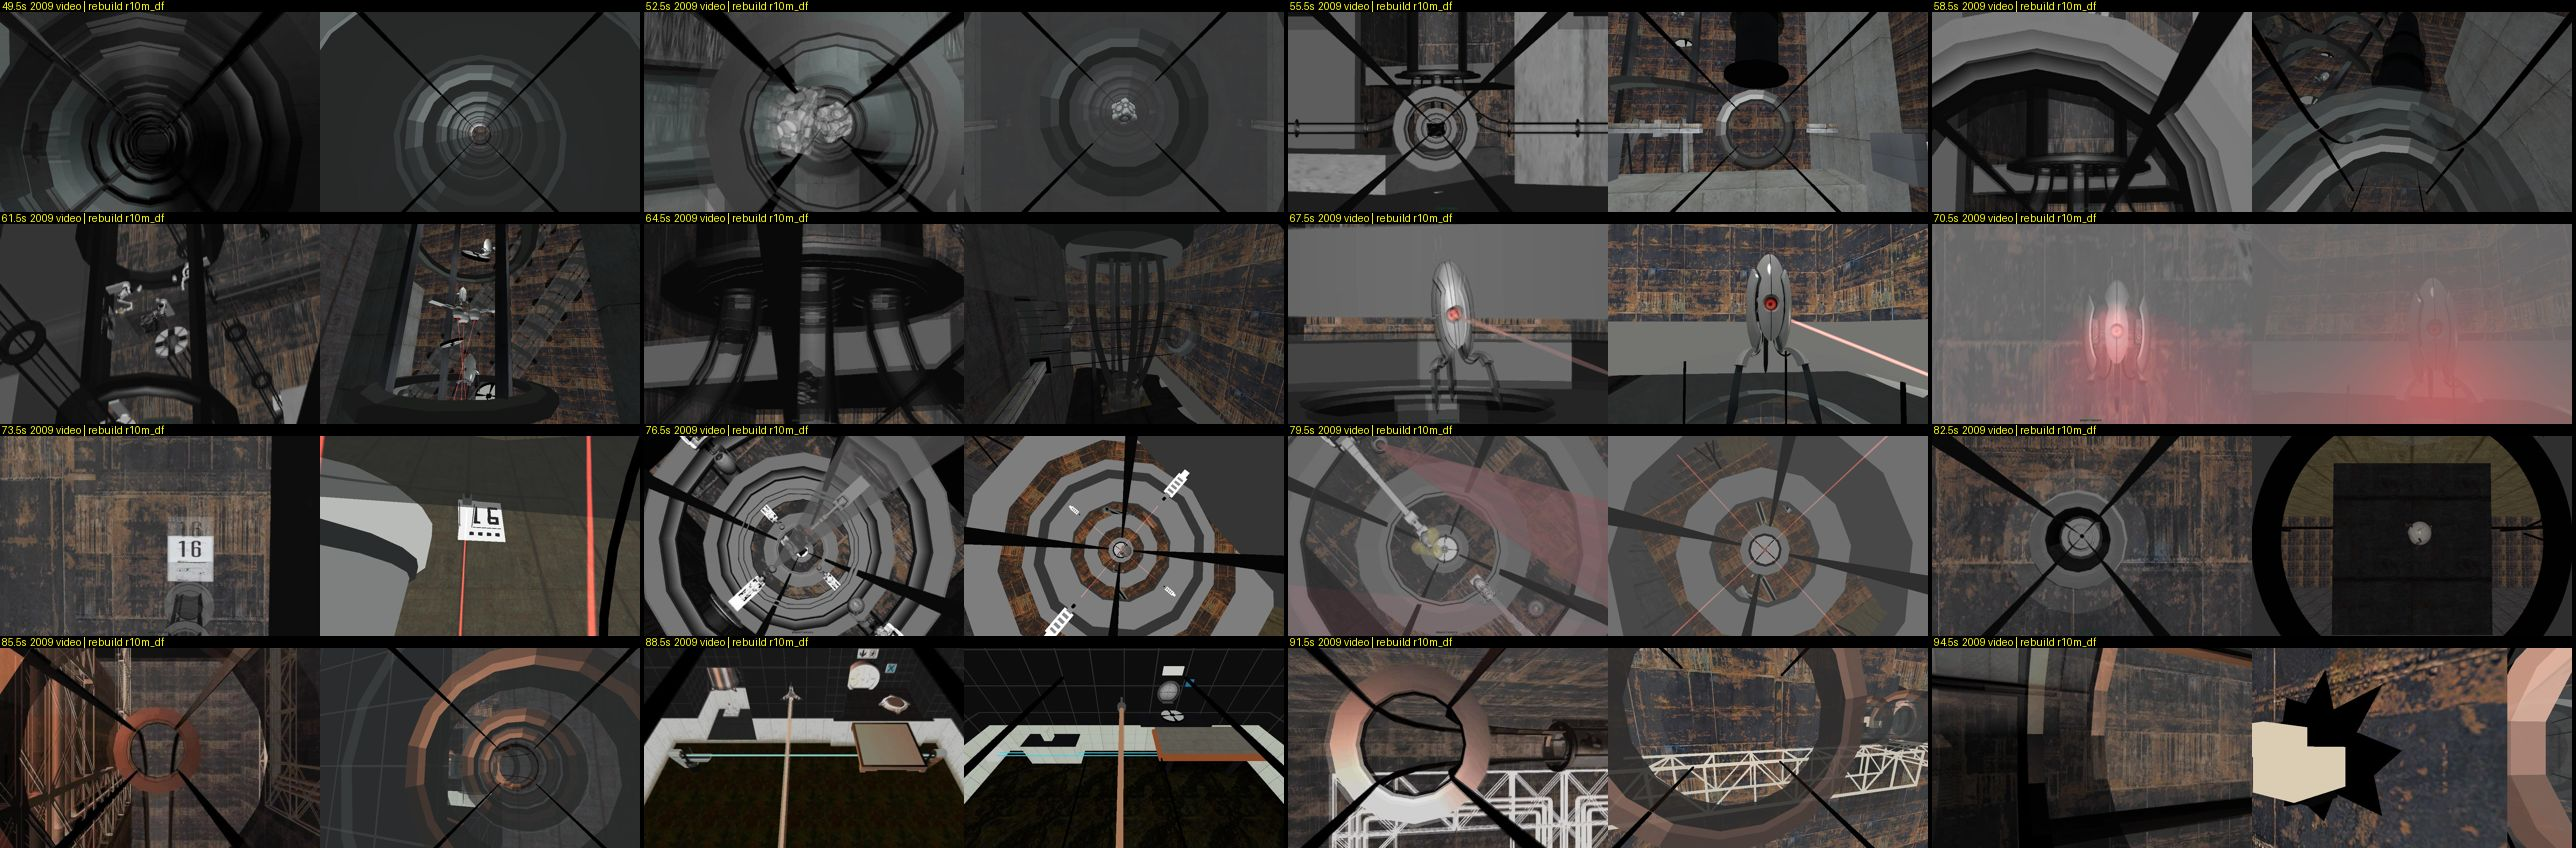
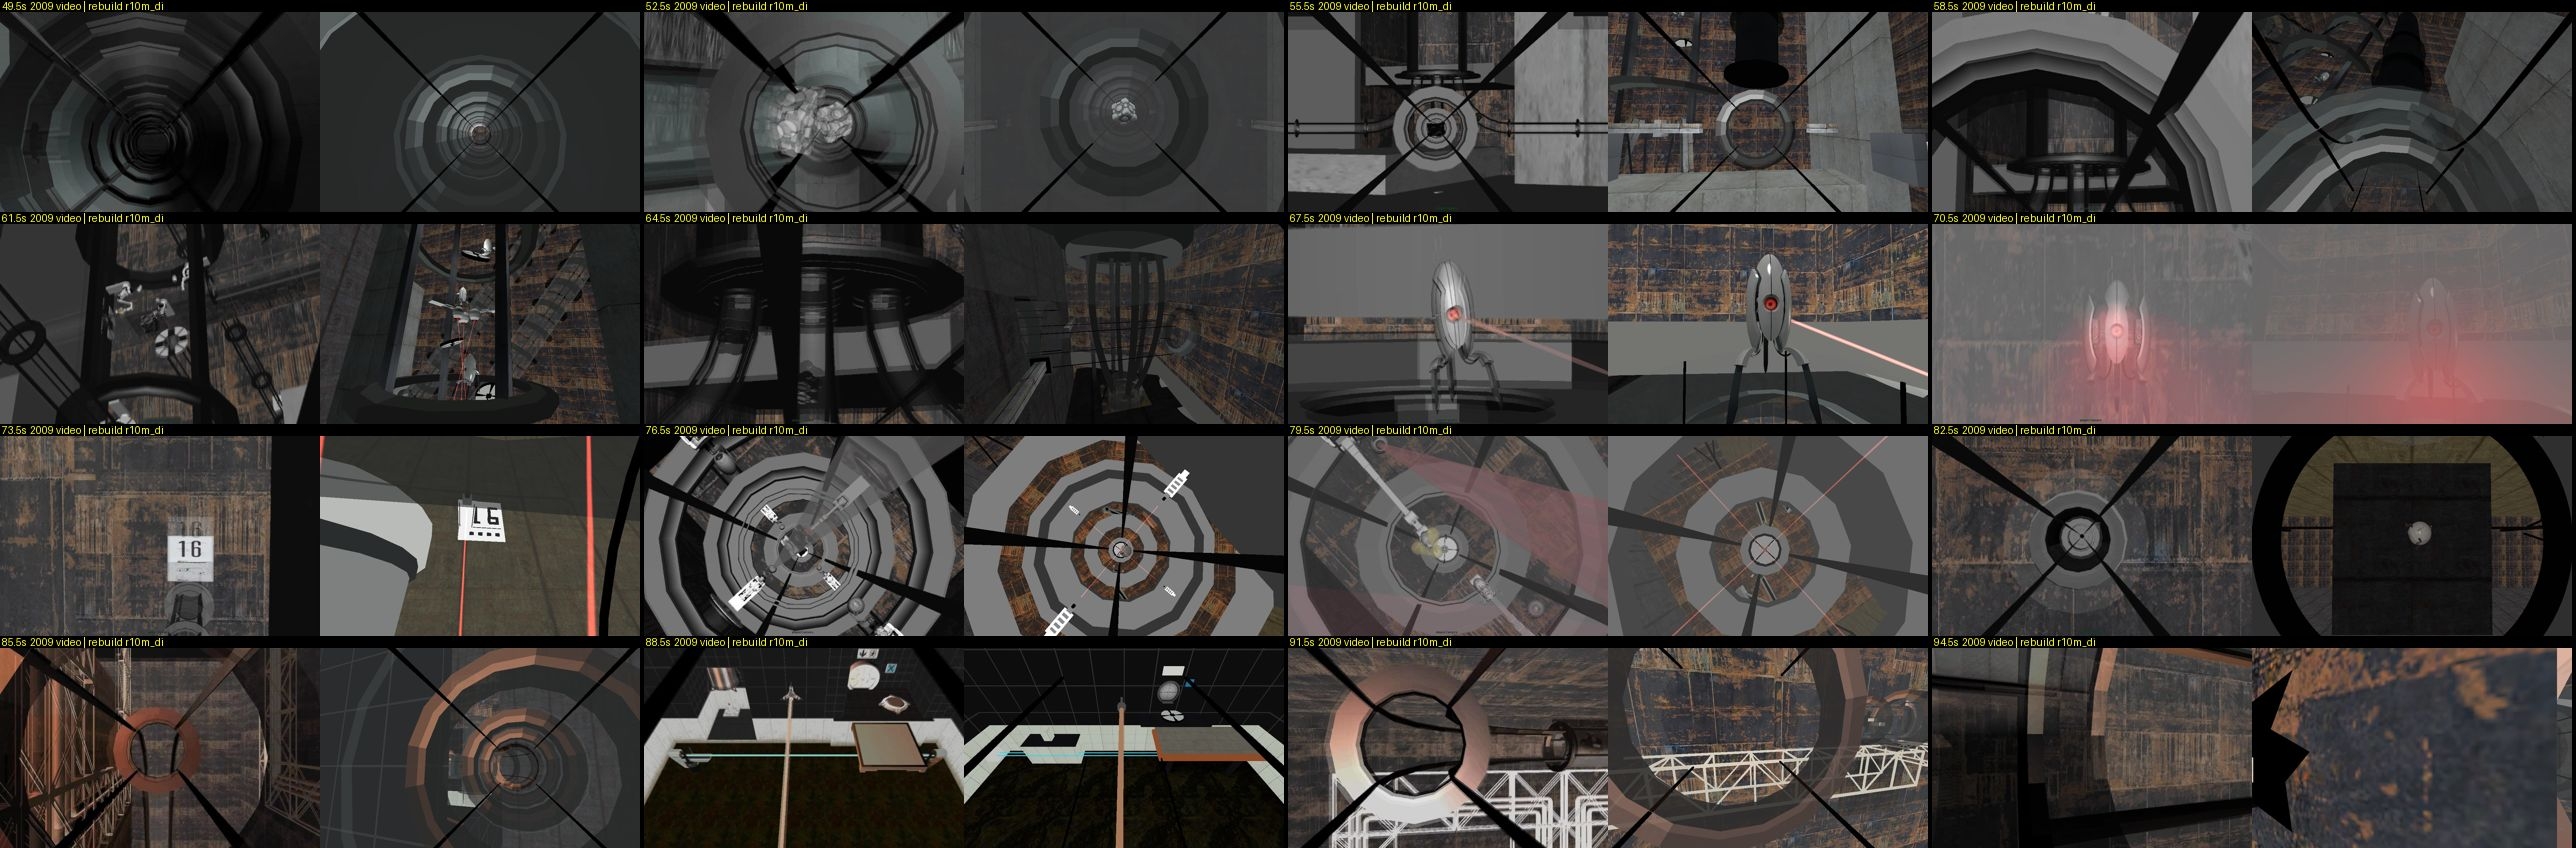
Corehub intro rebuild (corehub_r10di + director_r10di; newest test r10di)
Separated middle rooms, frontal walls, WIP surfaces, 60 fps test runs; see corehub/intro/README.md for per-scene scores.

Claude-Session: https://claude.ai/code/session_014AMsH7FRGKMAJSenMpS1Ga

Changed region(s): [[0.8696, 0.7665, 0.9938, 1.0], [0.7143, 0.7972, 0.7453, 0.8585]]

diff --git a/corehub/intro/tools/patch_director.py b/corehub/intro/tools/patch_director.py
@@ -125,12 +125,16 @@ knots.update({112.0: (83.0, 0.0, 22.0), 112.25: (90.0, 0.0, 26.0), 112.5: (90.0,
               114.5: (90.0, 0.0, 8.1)})
 assert txt.count('{name="intro_discard_cube",poses=[[110.7500,Vector(8389.8750,-37.7813,1590.0000)],[111.2500,Vector(8401.3333,47.2500,1460.0000)],[112.0000,Vector(8493.8118,-31.5612,1409.7186)],[112.5000,Vector(8486.4625,-14.5516,1380.0000)],[113.0000,Vector(8506.2973,-1.7792,1325.0000)],') == 1
 txt = txt.replace('{name="intro_discard_cube",poses=[[110.7500,Vector(8389.8750,-37.7813,1590.0000)],[111.2500,Vector(8401.3333,47.2500,1460.0000)],[112.0000,Vector(8493.8118,-31.5612,1409.7186)],[112.5000,Vector(8486.4625,-14.5516,1380.0000)],[113.0000,Vector(8506.2973,-1.7792,1325.0000)],', '{name="intro_discard_cube",poses=[[111.9000,Vector(8382.0,-26.0,1587.0)],[112.2500,Vector(8401.7,-17.4,1547.0)],[112.5000,Vector(8404.6,-23.2,1519.0)],[112.7500,Vector(8401.2,-27.0,1486.0)],[113.0000,Vector(8385.0,-40.0,1477.0)],')
-for _a, _b in [("local capsuleOffset=(capsuleEye+Vector(34.75,33.0,-10)-capsuleRest)*capsuleBlend;",
-                "local r10sl=(t-125.95)/0.9;if(r10sl<0)r10sl=0;if(r10sl>1)r10sl=1;r10sl=r10sl*r10sl*(3-2*r10sl);local r10slv=Vector(0,-3.0+48.0*r10sl,0)*capsuleBlend;" + chr(10) + "    local capsuleOffset=(capsuleEye+Vector(34.75,33.0,-10)-capsuleRest)*capsuleBlend+r10slv;"),
-               ("local follow=eye+Vector(34.75,33.0,-10);", "local follow=eye+Vector(34.75,33.0,-10)+r10slv;"),
-               ('MoveProp("intro_pod",pod+capsuleOffset);', 'MoveProp("intro_pod",pod+capsuleOffset);{local dk=(t>=125.3&&t<128.0);if(dk!=r10PodDark){EntFire("intro_pod","Color",dk?"62 62 66":"255 255 255",0);r10PodDark=dk;}}')]:
-    assert txt.count(_a) == 1, _a
-    txt = txt.replace(_a, _b)
+# r10di: the capsule shell strip beside the lens (125.3-127 s) reads dark in the video and slides off the right edge by
+# 126.8 s (its curved left edge at 0.66/0.75/0.83/0.95 of the width at 126.0/126.25/126.5/126.75 s); ours stayed put
+_a = 'MoveProp("intro_pod_shell",(t>=125.3)?Vector(0,0,16)+eye-Vector(XHW+160,0,134):Vector(0,0,-3000));'
+_b = 'MoveProp("intro_pod_shell",(t>=125.3)?Vector(0,Lerp1(r10ShellSlide,t),16)+eye-Vector(XHW+160,0,134):Vector(0,0,-3000));'
+assert txt.count(_a) == 1, _a
+txt = txt.replace(_a, _b)
+txt = txt.replace('cutTab <- [', 'r10ShellSlide <- [[126.0,0.0],[126.25,3.6],[126.5,6.7],[126.75,11.3],[127.0,16.0]];' + chr(10) + 'cutTab <- [', 1)
+# r10dh: gallery breach (93.6-94.15 s) -- the video keeps the copper ring at the right with the hole inside its opening,
+# right of centre (0.75-0.8 of the width at 93.75-94 s); ours turned right early and showed the hole at the middle
+knots.update({93.625: (6.5, -50.0, 0.0), 93.75: (8.0, -40.0, 0.0), 93.875: (5.0, -32.0, 0.0), 94.0: (2.0, -30.0, 0.0), 94.125: (2.0, -30.0, 0.0)})
 new = 'knots <- [\n' + ',\n'.join('{t=%.8f,a=Vector(%.8f,%.8f,%.8f)}' % ((t,) + knots[t]) for t in sorted(knots)) + '\n'
 txt = txt[:start] + new + txt[end:]
 # Fades measured from the video's mean luminance around each cut (the cuts dissolve, they are not hard).
@@ -279,7 +283,6 @@ assert txt.count(anchor) == 1
 txt = txt.replace(anchor, '    foreach(f in r10Fades) if(t>=f[0] && t<f[1]){local k=(t-f[0])/(f[1]-f[0]);local a=(f[2]+(f[3]-f[2])*k).tointeger();if(a>fadeAlpha)fadeAlpha=a;}\n' + anchor)
 txt = txt.replace('cutTab <- [', 'r10Fades <- ' + str(fades).replace(' ', '') + ';\ncutTab <- [', 1)
 # the cube rides ahead in the lab tube (100-101.5 s) instead of sitting where the camera passes through it
-txt = txt.replace('cutTab <- [', 'r10PodDark <- false;' + chr(10) + 'cutTab <- [', 1)
 txt = txt.replace('cutTab <- [', 'r10LabCube <- [[99.8,7565],[100,7575],[100.5,7600],[101,7625],[101.5,7640],[101.9,7900]];' + chr(10) + 'cutTab <- [', 1)
 # cube passage (52-53.8 s): the video dissolves from the far cube to a close one at ~52.55 s; the cube jumps
 # closer under a short dip instead of drifting slowly toward the camera
@@ -327,12 +330,12 @@ txt = txt.replace(lk_old, lk_new)
 drop_old = 'MoveProp("intro_drop",(t>=44.0 && t<47.4)?Vector(Lerp1(dropTab,t),0,1150):Vector(0,0,-3000));'
 drop_new = ('{local p=Vector(0,0,-3000);if(t>=44.0&&t<47.6){for(local i=0;i<r10DropPath.len()-1;i++)if(t>=r10DropPath[i][0]&&t<=r10DropPath[i+1][0])'
             '{local f=(t-r10DropPath[i][0])/(r10DropPath[i+1][0]-r10DropPath[i][0]);p=r10DropPath[i][1]+(r10DropPath[i+1][1]-r10DropPath[i][1])*f;break;};};'
-            'MoveProp("intro_drop",p);MoveProp("r10_tube_end",(t<48.85)?Vector(2812,0,1152):Vector(0,0,-3000));'
+            'MoveProp("intro_drop",p);MoveProp("r10_tube_end",(t>=48.2&&t<48.85)?Vector(2812,0,1152):Vector(0,0,-3000));'
             'MoveProp("r10_tw_column",(t<58.58)?Vector(3754,0,1272):Vector(0,0,-3000));MoveProp("r10_tw_backwall",(t<58.58)?Vector(0,0,0):Vector(0,0,-4000));'
             '{local cc=(t>=79.75&&t<81.05);local p=Vector(0,0,-3000);if(cc){local q=r10CloseCones[0][1];for(local i=0;i<r10CloseCones.len()-1;i++)if(t>=r10CloseCones[i][0]&&t<=r10CloseCones[i+1][0]){local f=(t-r10CloseCones[i][0])/(r10CloseCones[i+1][0]-r10CloseCones[i][0]);q=r10CloseCones[i][1]+(r10CloseCones[i+1][1]-r10CloseCones[i][1])*f;break;};p=Vector(q.x,q.y,PositionAt(t).z+q.z);};MoveProp("r10_close_cones",p);MoveProp("r10_close_head",p);local pb=(t<80.1)?p:Vector(0,0,-3000);if(t>=71.3&&t<72.35){p=Vector(4820,50,990);pb=p;MoveProp("r10_close_cones",p);MoveProp("r10_close_head",p);};MoveProp("r10_close_arm_a",(t<72.35)?Vector(0,0,-3000):p);MoveProp("r10_close_arm_b",pb);};'
             '{local twt=(t<58.58||t>=63.9);MoveProp("r10_tw_tube_0",twt?Vector(3754,0,1396):Vector(0,0,-3000));MoveProp("r10_tw_tube_1",twt?Vector(3754,0,1640):Vector(0,0,-3000));MoveProp("r10_tw_tube_2",twt?Vector(4010,0,1640):Vector(0,0,-3000));MoveProp("r10_tw_tube_3",twt?Vector(4010,0,1396):Vector(0,0,-3000));};'
             '{local ins=(t>=71.3&&t<72.35);local pet=(t>=71.3&&t<74.7);local pl=ins||(t>=73.4&&t<74.7);MoveProp("r10_inlet_plate",pl?Vector(0,0,0):Vector(0,0,-4000));MoveProp("r10_inlet_ring",ins?Vector(0,0,-3000):Vector(4800,0,984));local hid=Vector(0,0,-3000);local P1=[Vector(4761.8,38.2,950),Vector(4761.8,-38.2,950),Vector(4838.2,-38.2,950),Vector(4838.2,38.2,950)];local P2=[Vector(4838.2,38.2,950),Vector(4838.2,-38.2,950),Vector(4761.8,-38.2,950),Vector(4761.8,38.2,950)];if(pet){MoveProp("r10_inlet_frame_orig",hid);MoveProp("r10_inlet_frame2",Vector(4800,0,938));foreach(i,q in P2)MoveProp("r10_inlet_petal_"+i,q);foreach(i,q in P1)MoveProp("intro_cake_iris_"+i,hid);}else{MoveProp("r10_inlet_frame2",hid);foreach(i,q in P2)MoveProp("r10_inlet_petal_"+i,hid);if(t>=74.7&&t<74.85){MoveProp("r10_inlet_frame_orig",Vector(4800,0,950));foreach(i,q in P1)MoveProp("intro_cake_iris_"+i,q);};};};'
-            'MoveProp("r10_cube_sleeve",(t>=48.86&&t<50.6)?Vector(0,0,0):Vector(0,0,-4000));'
+            'MoveProp("r10_cube_sleeve",(t>=46.5&&t<48.2)||(t>=48.86&&t<50.6)?Vector(0,0,0):Vector(0,0,-4000));'
             'MoveProp("r10_tu_tubes",(t<67.4)?Vector(4575,58,1340):Vector(0,0,-3000));'
             'MoveProp("r10_exit_collar",(t>=81.0&&t<82.4)?Vector(0,0,-3000):Vector(4967,0,256));'
             '{local tp=(t<67.4);MoveProp("r10_tu_posts",tp?Vector(0,0,0):Vector(0,0,-4000));local ts=(t>=63.87&&t<71.2);MoveProp("r10_tu_screen",ts?Vector(0,0,0):Vector(0,0,-4000));};'

diff --git a/corehub/intro/tools/patch_r10.py b/corehub/intro/tools/patch_r10.py
@@ -848,13 +848,13 @@ for e in v.entities:
     if not e['classname'].startswith('prop_'): continue
     o = Vec.from_str(e['origin'])
     if e['model'] == 'models/corehub_intro/r10_broken.mdl' and abs(o.x - 6592) < 1 and abs(o.y - 185) < 1:
-        e['model'] = 'models/corehub_intro/r10_wallhole.mdl'; e['origin'] = '6679 150 255'; e['angles'] = '0 0 0'; be += 1   # r10bf
-        e['classname'] = 'prop_dynamic_override'; e['modelscale'] = '1.6'; e['solid'] = '0'   # r10bg: the video's hole is ~0.35 of the frame
+        e['model'] = 'models/corehub_intro/r10_wallhole.mdl'; e['origin'] = '6655 160 255'; e['angles'] = '0 0 0'; be += 1   # r10bf; r10dh: 24 nearer the run and 10 north so it sits right of centre at 93.75-94.1 s and sweeps left past the lens at 94.25-94.4 s like the video's
+        e['classname'] = 'prop_dynamic_override'; e['modelscale'] = '1.4'; e['solid'] = '0'   # r10bg: the video's hole is ~0.35 of the frame (r10dh: 1.4 nearer)
     elif e['model'] == 'models/corehub_intro/transport_ring_orange.mdl' and abs(o.x - 6592) < 1 and abs(o.y - 256) < 1:
         e['classname'] = 'prop_dynamic_override'; e['modelscale'] = '0.75'; e['solid'] = '0'; be += 1
 # r10bf: the video passes a jagged black hole in a rust panel close to the right of the rails (94-94.4 s), not a closed
 # broken tube: a rust panel parallel to the run carries the hole (wall-hole model with two cream boxes)
-pan = box((6680, 60, 150), (6690, 320, 380), RUST_GAL, world=False)
+pan = box((6656, 60, 150), (6666, 300, 380), RUST_GAL, world=False)   # r10dh: moved with the hole
 for f in pan.sides: f.uaxis.scale = 0.75; f.vaxis.scale = 0.75
 v.create_ent('prop_dynamic_override', model='models/corehub_intro/transport_ring_pink.mdl', origin='6700 0 256', angles='0 0 0',
              solid='0', disableshadows='1')
@@ -1523,6 +1523,18 @@ for nm, sl in (('r10_inc_tubes', itb), ('r10_inc_cones', ipk), ('r10_inc_haze', 
     v.create_ent('func_brush', targetname=nm, Solidity='1', spawnflags='2', rendermode='0', renderamt='255',
                  rendercolor='255 255 255', disablereceiveshadows='1', disableshadows='1', vrad_brush_cast_shadows='0').solids.extend(sl)
 print('r10dd incinerator: probes removed', _rm, 'collar moved', _mv, 'tubes', len(inc_tubes))
+# r10di: the capsule shell strip beside the lens (125.3-127 s) reads as the video's dark curved wall (left edge ~110,
+# black to the right) rather than pale facets (170 -> 36): its eight shades at 0.6x
+_shell = {}
+for _k, _c in enumerate([0.667, 0.549, 0.439, 0.345, 0.267, 0.212, 0.173, 0.141]):
+    _g = round(_c * 0.6, 3)
+    _shell['corehub_intro/ending_shell_u%d' % _k] = unlit('ending_shell_dk_u%d' % _k, 'lights/white002', '%s %s %s' % (_g, round(_g * 1.016, 3), round(_g * 1.016, 3)))
+_ns = 0
+for e in v.by_target.get('intro_pod_shell', ()) if hasattr(v, 'by_target') else [x for x in v.entities if x['targetname'] == 'intro_pod_shell']:
+    for so in e.solids:
+        for f in so.sides:
+            if f.mat.lower() in _shell: f.mat = _shell[f.mat.lower()]; _ns += 1
+print('r10di shell faces darkened', _ns)
 dst = R10 / 'build' / (NAME + '.vmf')
 v.export(dst.open('w'), inc_version=False)
 print('wrote', dst, len(added), 'boxes')

diff --git a/corehub/intro/README.md b/corehub/intro/README.md
@@ -38,7 +38,7 @@ r10 is built on top of the newest pursuit9 map (capsule-follow v50: walkable ope
 
 ## Scores (1–10, against the 2009 video; ending blink/black not scored)
 
-Published build: `corehub_r10df` + `director_r10df` (outputs/Corehub-Intro). Test run: `videos/r10m_df_side.mp4`.
+Published build: `corehub_r10di` + `director_r10di` (outputs/Corehub-Intro). Test run: `videos/r10m_di_side.mp4`.
 
 | # | Scene | Time (s) | v50 base | r10 now | Main remaining differences |
 |---|---|---|---|---|---|
@@ -50,17 +50,17 @@ Published build: `corehub_r10df` + `director_r10df` (outputs/Corehub-Intro). Tes
 | 6 | Processing tower | 55.3–65 | 4.5 | 9 | r10cn/co: the bend's glossy dome leaves the approach (55-57.3 s) so the collar ring frames the tube's far end against lit rust like the video; r10bn/bp: the camera's own climb tube is hidden during the climb (58.6–63.9 s) so the scanning column, rings, lasers and rust wall read clear like the video; the view stays on the column until ~63.85 s |
 | 7 | Turret and "16" inlet | 65–74 | 5 | 9 | r10cm: the lift descent is as dim as the video (64-65.4 s) and the tubes hanging from the collar are dark grey rather than black; r10cb-cd: the inlet iris shot works again (its first knots had slipped behind a comment, so 71.34-71.8 s swept from the turret yaw); the iris reads as the video's (flat petals in a square round a grey frame); r10bv-by: the glare is a screen-space lens veil with a red glow that follows the turret (wall sd 3 like the video, legs R +60); the camera sits 56 units from the turret and follows the video's eye track; the descent comes in beside the lift collar and looks down past the tubes hanging from it into the floor ring (64-66.5 s); the cut to the inlet iris (71.34 s) is in |
 | 8 | Transfer and scanners | 74–83 | 5 | 9 | r10cq-ct: the transfer shaft (75.4-80.75 s) is the video's stack of flat grey 12-sided rings, measured from its radial luminance profiles every 0.1 s (ring edges tracked, its 16:10 render stretch undone): ring A z 649 (dark chamfer 123-134, grey 134-152), ring B 605 (grey 95-175, dark rust to 226, grey beyond), ring C 563 (grey 51-81), a white target at 515, the tube's four rails as thick black spokes, two long and two short scanner boards between them; the camera descends on the video's measured timing with its vanishing point at the video's (-0.02, +0.10)f, and a grey veil (alpha 0.43-0.73) dims the contrast 77.4-79.8 s like the video; SSIM 0.29 -> 0.39 (76.5-79.5 s: 0.19-0.32 -> 0.30-0.57); r10cj: the cake sits on the closed flat-petal iris until the camera drops through it in the dark like the video (74-75.5 s; SSIM 0.18 -> 0.30 at 74.5 s, 0.33 -> 0.63 at 75 s); r10cc/cd: the iris view looks straight down at the iris set in a flat rust floor with black beams and a darker right panel like the video (81-82.3 s), the iris opens at 82.3 s and the camera passes through by 82.6 s; r10ca: both arms' white links and mounts leave the 81.1–82.5 s iris view; r10bs-bz: the scanner head and cones pass under the lens inside the white ring (80-80.75 s); the second arm and the exit collar leave the 81-82.4 s iris view, the camera holds lower |
-| 9 | Copper tube, sludge room, gallery | 84.5–95.7 | 4 | 8.8 | r10dc: a rust ceiling ring round the sludge funnel closes the top of the drop like the video (86.5 s SSIM 0.32 -> 0.42); r10db: the drop into the sludge funnel runs through a rust-walled shaft like the video (86.2-87.1 s) instead of showing the room's white tiles; r10bz: the sludge room is framed wider (camera 40 higher, 40 back) like the video; the gallery lattice is taller and nearer under the tube so it fills the lower third (91-93.75 s) |
+| 9 | Copper tube, sludge room, gallery | 84.5–95.7 | 4 | 8.8 | r10dh: the breach in the gallery wall sits nearer the run with smaller cream blocks, right of centre inside the copper ring at 93.75-94.1 s and sweeping left past the lens at 94.25-94.4 s like the video (94.0/94.5 s 0.25/0.24 -> 0.29/0.33); r10dc: a rust ceiling ring round the sludge funnel closes the top of the drop like the video (86.5 s SSIM 0.32 -> 0.42); r10db: the drop into the sludge funnel runs through a rust-walled shaft like the video (86.2-87.1 s) instead of showing the room's white tiles; r10bz: the sludge room is framed wider (camera 40 higher, 40 back) like the video; the gallery lattice is taller and nearer under the tube so it fills the lower third (91-93.75 s) |
 | 10 | Factory passage | 96.6–99.8 | 6 | 8.7 | r10cl: the walkway under the tube is lighter and warmer like the video (97 s 70 vs 75, 99.25 s 81 vs 83; was 53-60 and 68); r10ck: the 98 s ring dims like the video (98.0-98.45 s); r10cg: the collar that filled the 98 s frame as a dark block leaves the shot (97.95-98.08 s); r10bj/bm: floor and benches beyond the walkway darkened to the video's near-black (the walkway stays mid grey); 98 s collar darkened for its frame |
 | 11 | Lab and test chamber | 100–109.5 | 4 | 9 | r10cz: a tall white tiled wall and a white floor stand beside the hanging turrets so the turn fills the left half with white like the video (103-105.3 s; frame mean 63-78 -> 87-109 against the video's 108-143); r10cj: the lab tube opens as dark as the video (106-107.25 s) and goes dark inside the tube from 108.6 s like the video (SSIM 0.13 -> 0.47 at 109.5 s); r10bl: from the tube the video sees black tiles with a grey pipe and a small white sign on the right (a screen hides the test chamber until the 102.8 s turn); chamber view matches |
 | 12 | Incinerator and final probes | 110–118.4 | 5.5 | 9 | r10dd-df: the descent is re-timed to the video's ring tracks (it falls steadily, 113 -> 160 u/s, where ours ran ahead and stalled at 113.5-114 s) and the ring stack re-spaced to the video's 124/107/112 units down to the furnace collar; the long capsule probes are replaced by the video's short glowing white tubes (blob tracks 112-113.9 s: a pair each side at the top level, top and bottom below, four lower down) with pink fans from the axis, the bottom one's narrow red beam and grey fans lower down; the camera looks straight down from 112.05 s with the rails at the video's angle; the cube falls beside the lens at the lower right (112.25-112.75 s); the core glow shows from 114.6 s (SSIM 0.39 -> 0.49; 112.5 s 0.15 -> 0.47, 113.5 s 0.22 -> 0.63, 114.5 s 0.35 -> 0.62); r10cx/cy: a translucent grey ring at the probe level (z 1301-1305, measured from the video's ring edges 112.6-113.4 s) gives the video's middle ring between the two collars; the probes' red cones are dimmed; r10ck: the descent past the light tubes is as dim as the video (111.35-114.1 s, frame-mean ratio 0.6-0.8 before); r10ch: the dark frame over the furnace leaves at 111.9 s, so the shaft reads orange round the light tubes like the video (113 s SSIM 0.19 -> 0.39); r10bb: rust floor round the top collar and a dark plate round the iris hide the orange annulus (110–111.3 s); chamber orange toned down; the video's ball passes closer (115 s) |
-| 13 | Capsule and ending | 118.4–134 | 6 | 8.7 | r10cy: at the vault doorway the camera looks 4.5 degrees lower so the tube's centre sits where the video's does (124.25-125.5 s); r10cg: the square frames on the capsule approach have salmon-red sides like the video's strips (119.4-120.8 s); the capsule glass is neutral grey (was teal); r10bg: rings frame the capsule until ~120.9 s; the turn holds on the close concrete wall (123.35–123.65 s) before the dip to the vault doorway; tube walls still grey where the video shows red-orange strips |
+| 13 | Capsule and ending | 118.4–134 | 6 | 8.7 | r10dg-di: the approach is re-timed to the video's far ring (it grows at a steady rate; ours ran 25-80% closer from 119.75 s; 120.5 s SSIM 0.20 -> 0.31); the capsule-shell strip beside the lens reads as the video's dark curved wall and slides off the right edge by 126.8 s (125.5-128 s: 0.42/0.49/0.38/0.57 -> 0.49/0.52/0.49/0.70); r10cy: at the vault doorway the camera looks 4.5 degrees lower so the tube's centre sits where the video's does (124.25-125.5 s); r10cg: the square frames on the capsule approach have salmon-red sides like the video's strips (119.4-120.8 s); the capsule glass is neutral grey (was teal); r10bg: rings frame the capsule until ~120.9 s; the turn holds on the close concrete wall (123.35–123.65 s) before the dip to the vault doorway; tube walls still grey where the video shows red-orange strips |
 
 ## Objective check
 
 `tools/similarity.py <run>` scores every half second against the video (SSIM on blurred 128x80 greyscale; 1 = identical) and
 prints per-scene means and the worst moments. It is a regression guard, not the score: the factory looks close but scores
-low because its fine detail never lines up. r10m_q 0.453 -> r10m_z 0.471 -> r10m_co 0.491 -> r10m_ct 0.497 -> r10m_cu 0.498 -> r10m_cw 0.499 -> r10m_db 0.499 -> r10m_dc 0.500 -> r10m_df 0.505 mean.
+low because its fine detail never lines up. r10m_q 0.453 -> r10m_z 0.471 -> r10m_co 0.491 -> r10m_ct 0.497 -> r10m_cu 0.498 -> r10m_cw 0.499 -> r10m_db 0.499 -> r10m_dc 0.500 -> r10m_df 0.505 -> r10m_di 0.508 mean.
 
 ## Not at 9 yet (next work, in order)
 
